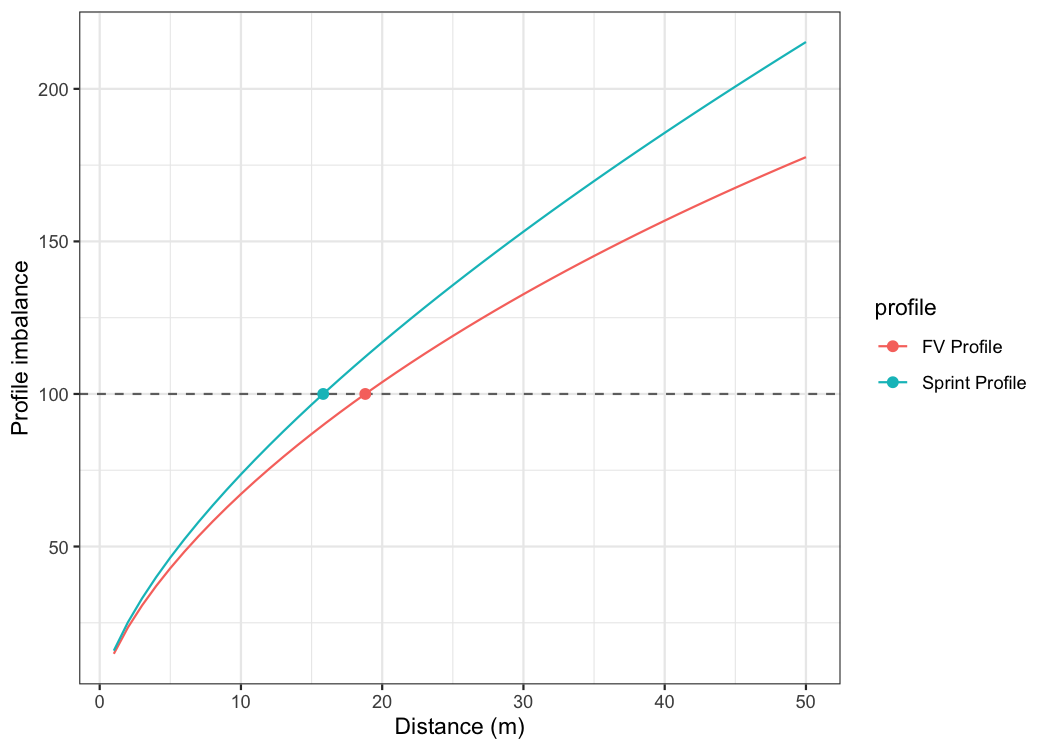
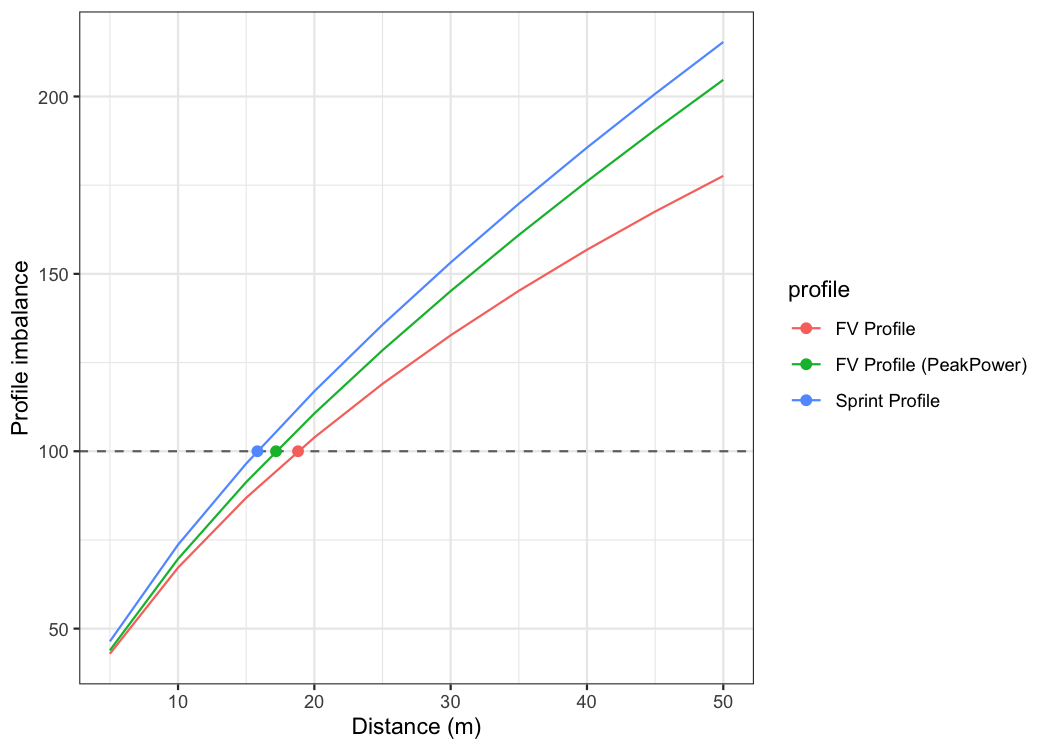
Updated optimization example

diff --git a/README.md b/README.md
@@ -648,20 +648,20 @@ jim_profile_CV
 #> # A tibble: 10 × 5
 #>      MSS   TAU   MAC  PMAX         TC
 #>    <dbl> <dbl> <dbl> <dbl>      <dbl>
-#>  1  8.00 0.888  9.01  18.0 -0.0000815
-#>  2  8.00 0.888  9.01  18.0  0.000292 
-#>  3  8.00 0.888  9.00  18.0 -0.000215 
-#>  4  8.00 0.889  9.00  18.0  0.000104 
-#>  5  8.00 0.889  9.00  18.0  0.000107 
-#>  6  8.00 0.889  9.00  18.0  0.000118 
-#>  7  8.00 0.889  9.00  18.0  0.0000335
-#>  8  8.00 0.889  8.99  18.0  0.000266 
-#>  9  8.00 0.889  9.00  18.0  0.000162 
-#> 10  8.00 0.890  8.99  18.0  0.000354 
+#>  1  8.00 0.890  8.99  18.0  0.000186 
+#>  2  8.00 0.889  9.00  18.0  0.000163 
+#>  3  8.00 0.889  9.00  18.0  0.000208 
+#>  4  8.00 0.889  9.00  18.0  0.000112 
+#>  5  8.00 0.889  9.00  18.0  0.000149 
+#>  6  8.00 0.889  9.00  18.0  0.000183 
+#>  7  8.00 0.887  9.01  18.0 -0.000166 
+#>  8  8.00 0.890  8.99  18.0  0.000185 
+#>  9  8.00 0.889  9.00  18.0  0.0000561
+#> 10  8.00 0.889  9.00  18.0  0.0000236
 #> 
 #> Testing model fit:
 #>       RSE R_squared    minErr    maxErr maxAbsErr      RMSE       MAE      MAPE 
-#>        NA     0.999    -0.166     0.151     0.166     0.051     0.039       Inf
+#>        NA     0.999    -0.164     0.152     0.164     0.051     0.039       Inf
 ```
 
 ### Optimization
@@ -679,7 +679,7 @@ bodymass <- 75
 fv <- make_FV_profile(MSS, MAC, bodymass)
 
 opt_df <- tibble(
-  dist = 1:50) %>%
+  dist = seq(5, 50, by = 5)) %>%
   mutate(
     `Sprint Profile` = find_optimal_MSS_MAC(
       distance = dist,
@@ -689,15 +689,21 @@ opt_df <- tibble(
       distance = dist,
       fv$F0_poly,
       fv$V0_poly,
-      bodymass)[["FV_slope_perc"]]
+      bodymass)[["slope_perc"]],
+    `FV Profile (PeakPower)` = find_optimal_FV_peak(
+      distance = dist,
+      fv$F0_poly,
+      fv$V0_poly,
+      bodymass)[["slope_perc"]]
   ) %>%
   pivot_longer(-dist, names_to = "profile")
 
 opt_dist <- tibble(
   `Sprint Profile` = find_optimal_MSS_MAC_distance(MSS, MAC),
-  `FV Profile` = find_optimal_FV_distance(fv$F0_poly, fv$V0_poly)
+  `FV Profile` = find_optimal_FV_distance(fv$F0_poly, fv$V0_poly),
+  `FV Profile (PeakPower)` = find_optimal_FV_peak_distance(fv$F0_poly, fv$V0_poly)
 ) %>%
-  pivot_longer(cols = 1:2, names_to = "profile")
+  pivot_longer(cols = 1:3, names_to = "profile")
 
 ggplot(opt_df, aes(x = dist, y = value, color = profile)) +
   theme_bw() +
